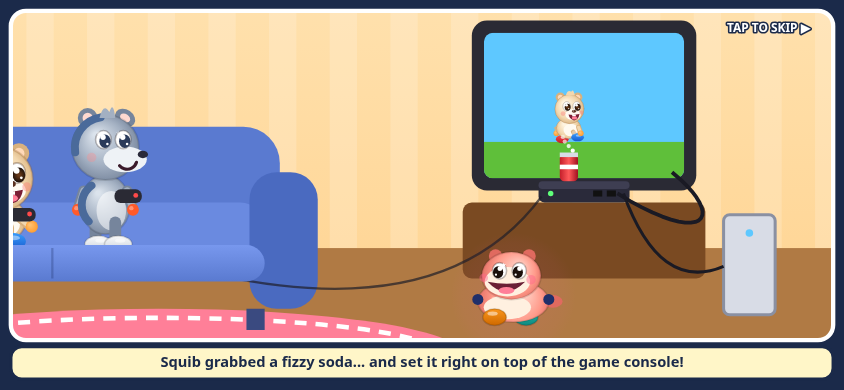
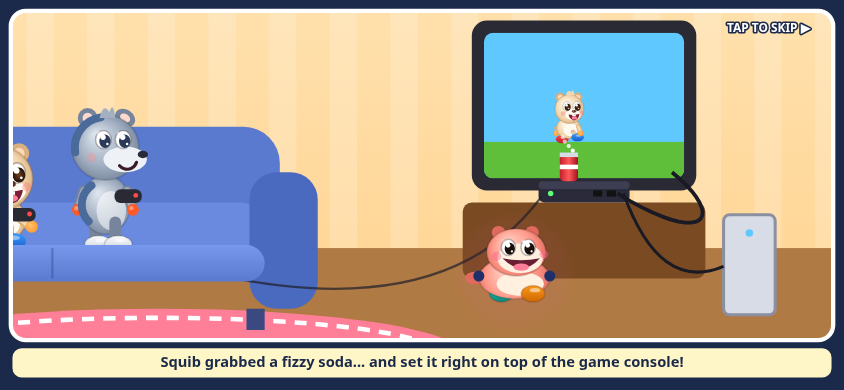
Launch cleanup: gate debug hooks to localhost, OG/Twitter share card, credits, boss polish, remove screenshots, README (rnr-v14)

Changed region(s): [[0.5545, 0.5846, 0.6777, 0.8308]]

diff --git a/js/game.js b/js/game.js
@@ -910,7 +910,9 @@
     if (P.dead || W.won) return;
     const pb = playerBox(), bx = B.x - B.w / 2, by = B.y - B.h;
     if (B.kind === 'glitch' && B.alpha < 0.5) return;
-    if (!overlaps(pb.x, pb.y, pb.w, pb.h, bx, by, B.w, B.h)) return;
+    const lift = P.swim ? 18 : 0;   // underwater: a slightly taller target, and any touch on top of the dazed boss counts
+    if (!overlaps(pb.x, pb.y, pb.w, pb.h, bx, by - lift, B.w, B.h + lift)) return;
+    if (P.swim && B.vuln && !(B.inv > 0) && P.y - P.h * 0.5 < by + B.h * 0.5) { bossHit(B, 'stomp'); return; }
     const fromTop = P.vy > 0 && P.prevY <= by + 18;
     const fromBelow = P.vy < 0 && P.prevTop >= by + B.h - 12;
     if ((fromTop || fromBelow || P.pw.power > 0) && B.vuln && !(B.inv > 0)) { bossHit(B, fromBelow ? 'bump' : 'stomp'); return; }
@@ -1298,6 +1300,7 @@
     ctx.restore();
     uiBtns.push({ id: 'play', x: VW / 2 - 140, y: 180, w: 280, h: 44, primary: true });
     if (save.high > 0) D.text(ctx, 'HIGH SCORE ' + save.high, VW / 2, 338, 14, '#fff', { sw: 4 });
+    D.text(ctx, 'Created by Walker Games', VW / 2, VH - 8, 10, 'rgba(255,255,255,.9)', { sw: 3 });
     button('levels', 14 + SAFE_L, VH - 50, 110, 38, 'MAP', { col: ['#9fd2ff', '#4a9bf0'], size: 14 });
     button('story', VW - 124 - SAFE_R, VH - 50, 110, 38, 'STORY', { col: ['#ff9ab8', '#e0306e'], size: 14 });
     iconButton('mute', VW - 30 - SAFE_R, 28, 17, muteIcon);
@@ -1425,6 +1428,7 @@
     D.text(ctx, 'YOU WIN!', VW / 2, 52, 44, '#ffde3a', { sw: 9 });
     D.text(ctx, 'Tubby Dash rescued his friends and made it home!', VW / 2, 92, 16, '#fff', { sw: 4 });
     D.text(ctx, 'FINAL SCORE  ' + G.score, VW / 2, 124, 22, '#8af05a', { sw: 5 });
+    D.text(ctx, 'Created by Walker Games - thanks for playing!', VW / 2, 172, 11, '#fff', { sw: 3 });
     D.text(ctx, G.score >= save.high ? '★ NEW HIGH SCORE ★' : 'HIGH SCORE ' + save.high, VW / 2, 150, 13, '#fff', { sw: 3 });
     const hop = Math.abs(Math.sin(t * 6)) * 34;
     ctx.fillStyle = 'rgba(0,0,0,.15)'; D.ell(ctx, VW / 2, 301, 34 - hop * 0.5, 5); ctx.fill();
@@ -2234,7 +2238,9 @@
   requestAnimationFrame(frame);
 
   // ---------- debug / test hooks ----------
-  window.RNR = {
+  // Only exposed when running on a local dev server (localhost / 127.0.0.1); the public build has no cheats.
+  const LOCAL_DEV = /^(localhost|127\.0\.0\.1|\[::1\])$/.test(location.hostname);
+  if (LOCAL_DEV) window.RNR = {
     G, HERO,
     get W() { return W; }, get B() { return W && W.boss; }, mapwalk(a, b) { G.mapFrom = a; G.mapTo = b; G.mapPos = a; G.mapSel = b; setState('mapwalk'); }, map(sel) { G.mapSel = G.mapPos = sel || 0; setState('levels'); }, complete() { win(); }, get P() { return P; }, get state() { return G.state; }, get save() { return save; },
     start(levelIdx) { G.god = false; G.rescue = false; G.rescues = 0; G.rescueAt = []; G.score = 0; G.levelStartScore = 0; startLevel(levelIdx || 0, true); setState('play'); },

diff --git a/index.html b/index.html
@@ -5,14 +5,30 @@
 <title>Run N Rumble</title>
 <meta name="viewport" content="width=device-width, initial-scale=1, maximum-scale=1, user-scalable=no, viewport-fit=cover">
 <meta name="theme-color" content="#3fb6ff">
-<meta name="description" content="Run N Rumble - a cartoon side-scrolling adventure starring Tubby Dash.">
+<meta name="description" content="Help Tubby Dash rescue his three friends and escape the video game! A free cartoon platformer with 15 levels and 5 bosses for your phone or browser.">
+<meta name="author" content="Walker Games">
+<link rel="canonical" href="https://anthonydalewalker-gif.github.io/run-n-rumble/">
+<meta property="og:type" content="website">
+<meta property="og:site_name" content="Run N Rumble">
+<meta property="og:title" content="Run N Rumble">
+<meta property="og:description" content="Help Tubby Dash rescue his three friends and escape the video game! A free cartoon platformer with 15 levels and 5 bosses for your phone or browser.">
+<meta property="og:url" content="https://anthonydalewalker-gif.github.io/run-n-rumble/">
+<meta property="og:image" content="https://anthonydalewalker-gif.github.io/run-n-rumble/icons/share-1200x630.png">
+<meta property="og:image:width" content="1200">
+<meta property="og:image:height" content="630">
+<meta property="og:image:alt" content="Run N Rumble logo with Tubby Dash and his friends Pipple, Lunker and Squib">
+<meta name="twitter:card" content="summary_large_image">
+<meta name="twitter:title" content="Run N Rumble">
+<meta name="twitter:description" content="Help Tubby Dash rescue his three friends and escape the video game! A free cartoon platformer with 15 levels and 5 bosses for your phone or browser.">
+<meta name="twitter:image" content="https://anthonydalewalker-gif.github.io/run-n-rumble/icons/share-1200x630.png">
+<meta name="twitter:image:alt" content="Run N Rumble logo with Tubby Dash and his friends">
 <meta name="mobile-web-app-capable" content="yes">
 <meta name="apple-mobile-web-app-capable" content="yes">
 <meta name="apple-mobile-web-app-status-bar-style" content="black-translucent">
 <meta name="apple-mobile-web-app-title" content="Run N Rumble">
 <link rel="manifest" href="manifest.webmanifest">
 <link rel="icon" type="image/png" sizes="192x192" href="icons/icon-192.png">
-<link rel="apple-touch-icon" href="icons/apple-touch-icon.png">
+<link rel="apple-touch-icon" sizes="180x180" href="icons/apple-touch-icon.png">
 <style>
   html, body {
     margin: 0; padding: 0; width: 100%; height: 100%;

diff --git a/js/art2.js b/js/art2.js
@@ -222,9 +222,9 @@
     c.strokeStyle = o.sel ? '#ffffff' : '#1b2a4a'; c.lineWidth = o.sel ? 4 : 2.5; c.stroke();
     if (o.sel) { c.strokeStyle = 'rgba(255,255,255,' + (0.4 + 0.4 * Math.sin(o.t * 6)) + ')'; c.lineWidth = 2; circ(c, x, y, r + 6); c.stroke(); }
     if (o.boss) { // skull-ish crown icon
-      c.fillStyle = '#fff'; c.beginPath(); c.moveTo(x - 9, y + 2); c.lineTo(x - 9, y - 7); c.lineTo(x - 4, y - 2); c.lineTo(x, y - 9); c.lineTo(x + 4, y - 2); c.lineTo(x + 9, y - 7); c.lineTo(x + 9, y + 2); c.fill();
-      D.text(c, o.label, x, y + 8, 8, '#fff', { sw: 2 });
-    } else D.text(c, o.label, x, y + 1, 10, '#fff', { sw: 3 });
+      c.fillStyle = '#ffe14a'; c.beginPath(); c.moveTo(x - 8, y - 2); c.lineTo(x - 8, y - 11); c.lineTo(x - 4, y - 6); c.lineTo(x, y - 13); c.lineTo(x + 4, y - 6); c.lineTo(x + 8, y - 11); c.lineTo(x + 8, y - 2); c.fill();
+      D.text(c, o.label, x, y + 9, 11, '#fff', { sw: 3 });
+    } else D.text(c, o.label, x, y + 1, 11, '#fff', { sw: 3 });
     if (o.stars) for (let i = 0; i < 3; i++) { c.fillStyle = i < o.stars ? '#ffd21f' : 'rgba(255,255,255,.35)'; D.star(c, x - 11 + i * 11, y + r + 9, 5, 0); c.fill(); }
   };
 })();

diff --git a/sw.js b/sw.js
@@ -1,5 +1,5 @@
 // Offline cache for Run N Rumble. Bump VERSION when files change.
-const VERSION = 'rnr-v13';
+const VERSION = 'rnr-v14';
 const CORE = [
   './', './index.html', './manifest.webmanifest',
   './js/audio.js', './js/input.js', './js/draw.js', './js/art.js', './js/friends.js', './js/art2.js', './js/levels.js', './js/game.js',

diff --git a/README.md b/README.md
@@ -1,16 +1,20 @@
 # Run N Rumble
 
-Phone-first 2D side-scroller (landscape) starring **Tubby Dash**. Plain HTML5 Canvas + JavaScript, no build step, no external libraries, works offline.
+Tubby Dash and his friends Pipple, Lunker and Squib are trapped inside a video game. Run, jump and swim through 15 levels in 5 worlds, beat the bosses holding your friends prisoner, and escape the game.
 
-- Play: open `index.html` from any static web host (HTTPS needed for the offline/install features).
-- Install: on iPhone, Safari > Share > Add to Home Screen. On Android, Chrome > menu > Add to Home screen / Install app.
-- Controls: on-screen left / right (bottom-left) and jump (bottom-right; in water each press is a swim stroke). Keyboard: arrows or A/D, and Space/W/Up to jump. P/Esc pauses, M mutes.
-- 15 levels in 5 worlds (Green Hills, Cloud Kingdom, Rooftop City, Deep Blue Bay, Star Station). Each world has 3 stages: X-1, X-2 (Caves & Mines, Storm Peaks, Subway, Coral Reef, Asteroid Belt) and an X-3 boss (Potato King, Thunder Bird, Pigeon Boss, Giant Crab, Glitch Monster). Three bosses hold the friends.
-- World map: pick any stage. It shows 1-3 stars and the best score per stage. Tubby walks the path between stages, and a skippable cutscene plays between worlds.
-- Stars: 1 for clearing, 1 for finishing with 2:30 left (3:20 on bosses), 1 for taking no damage.
-- Power-ups (10 s): purple = speed, yellow = power (grow + smash), black = shield (no damage), green = high jump, amber = tough (half damage).
-- Your music: drop `title.mp3` / `level1.mp3` ... `level5.mp3` into `audio/` and list them in `audio/music.json` (see audio/README.txt).
+**Play:** https://anthonydalewalker-gif.github.io/run-n-rumble/ (made for phones held sideways; works on desktop too, and offline after the first visit)
 
-Code layout: `js/levels.js` (level data + backgrounds), `js/game.js` (engine, bosses, world map, screens, HUD, cutscenes), `js/art2.js` (stage-2 and boss artwork),
-`js/draw.js` + `js/art.js` (all vector art), `js/audio.js` (Web Audio SFX + music), `js/input.js` (multitouch + keyboard).
-Test hooks: `window.RNR` (e.g. `RNR.start(3)`, `RNR.teleport(9300)`, `RNR.god()`, `RNR.power('tough')`, `RNR.cutscene(2)`).
+## How to play
+- **Touch:** left/right buttons at the bottom left, jump at the bottom right. In water, each press of jump is a swim stroke.
+- **Keyboard:** arrows or A/D to move, Space/W/Up to jump, P/Esc to pause, M to mute.
+- **World map:** pick any unlocked stage. Each world has two stages and a boss (Potato King, Thunder Bird, Pigeon Boss, Giant Crab, Glitch Monster). Stomp a boss when it is open to attack.
+- **Stars:** 1 for clearing a stage, 1 for finishing fast, and 1 for taking no damage.
+- **Power-ups (10 s):** purple = speed, yellow = power, black = shield, green = high jump, amber = tough.
+- **Install:** iPhone: Safari > Share > Add to Home Screen. Android: Chrome menu > Install app.
+
+## Tech
+Plain HTML5 Canvas and JavaScript. There is no build step and no libraries. A service worker (`sw.js`) caches the game for offline play.
+Code is in `js/`: `game.js` (engine, bosses, map, screens), `levels.js` (level data), `draw.js`/`art.js`/`art2.js`/`friends.js` (artwork), `audio.js`, `input.js`.
+Debug hooks (`window.RNR`) only exist when the game is served from localhost.
+
+Created by Walker Games.
